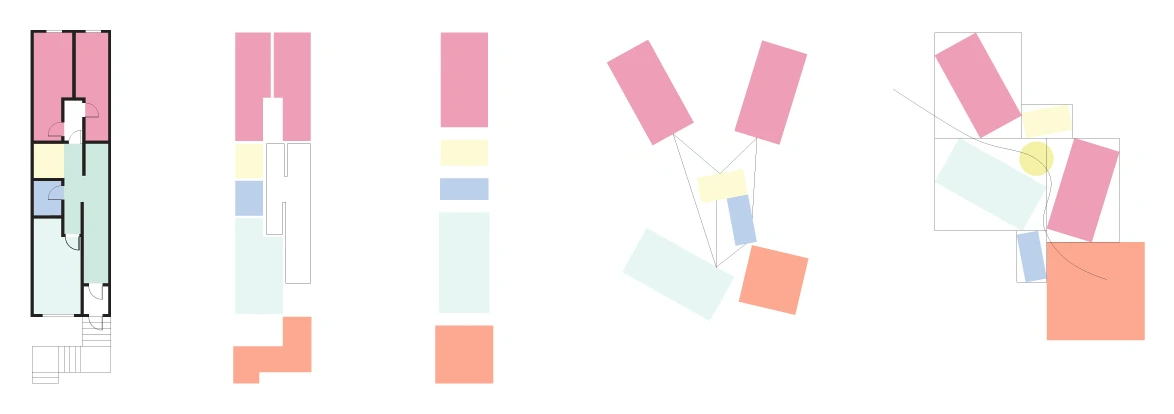
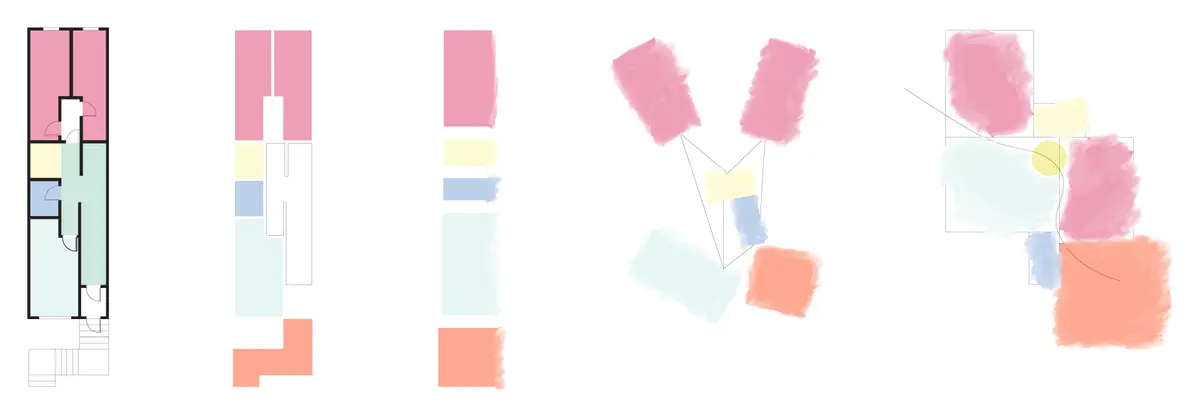
East 5th: diagram replaced by Artboard 30 (tenement facades + diagrams); sheet crop redone from it
Claude-Session: https://claude.ai/code/session_012xVSFeyKoQyZUFPAaCyKB9

diff --git a/public/projects.js b/public/projects.js
@@ -125,8 +125,9 @@ window.PROJECTS = {
         // diagram under the diagram, inside the black box (option A, his pick, 2026-11-06; no separate slide);
         // no effects; his own original colours (his call, 2026-11-06, after copper, Joint and 30%-darker versions); since
         // 2026-11-06 ~10:40pm NY his redone Artboard 10 (white ground, new palette), refs in the same places;
-        // lines as his. Note on the left (notes below)
-      {src: "img/social-sanctuary/tenement-diagram-references.webp", drawing: true, sheet: .6, sheetSrc: "img/social-sanctuary/sheet-diagram.webp", caption: "Co-op tenement, underspecificity diagram, Constant and Pask references"},
+        // lines as his. Note on the left (notes below). Since 2026-11-06 ~12:15am NY his Artboard 30 (tenement facades +
+        // the five diagrams, no references); the sheet still shows only the five diagrams
+      {src: "img/social-sanctuary/tenement-diagram-references.webp", drawing: true, sheet: .6, sheetSrc: "img/social-sanctuary/sheet-diagram.webp", caption: "Tenement facades and underspecificity diagram"},
         // his artboard: neighbourhood map with the site, then the block plan; full width kept, the white above and below
         // cropped off so the tag sits beside the map (his ask, 2026-11-06)
       {src: "img/social-sanctuary/site-context.webp", drawing: true, scale: .75, caption: "Site in the East Village"},
